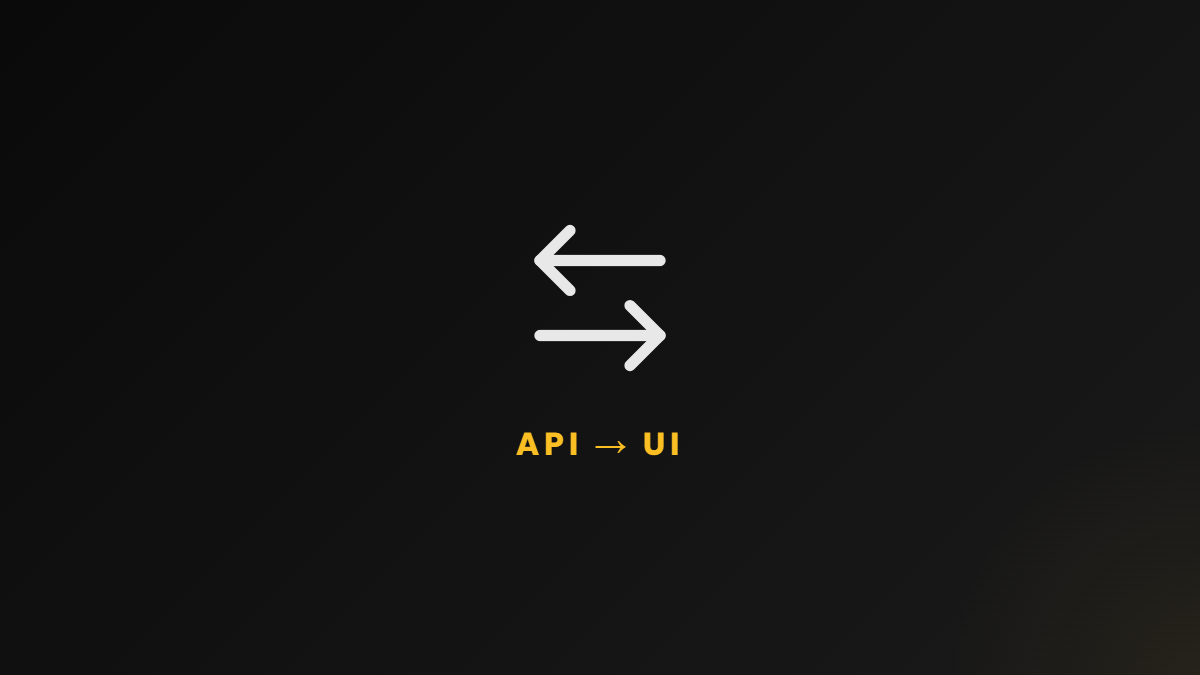
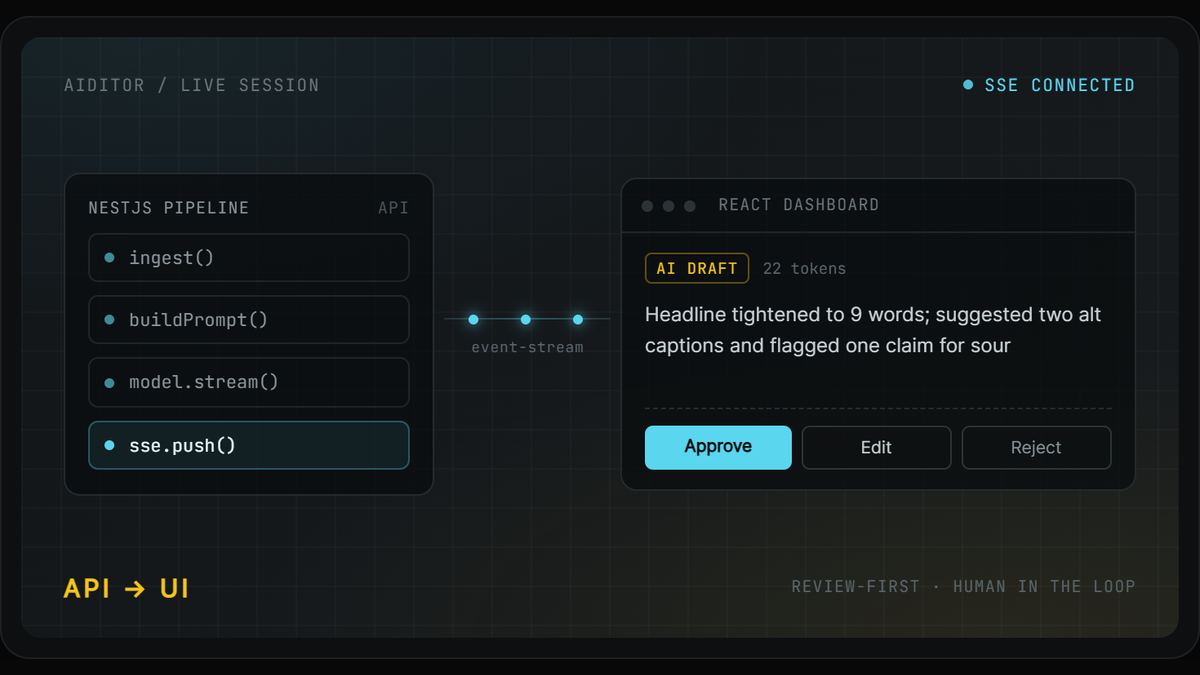
Replace the article covers with the UI mockups
Swaps the three placeholder cards — an icon and a label on flat black — for
mockups of what each write-up actually describes: the AIDITOR pipeline
streaming into a review-first dashboard, KiddoAI ranking curriculum PDFs
against a spoken question, and a hackathon sprint board counting down.

The sources are 1.87 against a 16:9 card slot, so they are fitted by width
rather than cropped, keeping each mockup's own border intact, and padded in
the site background, which is also what sits behind their rounded corners —
so the letterbox is invisible.

Serves WebP to browsers at a twelfth of the size (34 KB against 339 KB) with
no visible loss on the fine mockup type. The PNG stays as the fallback and as
the og:image, since not every social crawler handles WebP.

Alt text now describes what each mockup shows rather than calling it a cover
graphic.

diff --git a/src/lib/posts.ts b/src/lib/posts.ts
@@ -36,7 +36,7 @@ export const POSTS: Post[] = [
     excerpt:
       'How MASMEDIA AIDITOR ships real-time AI end to end: a NestJS pipeline, a React dashboard streaming over SSE, and a review-first UX that keeps AI output controllable.',
     cover: '/img/blog-thumb-api-ui.png',
-    coverAlt: 'Cover graphic for the NestJS and React real-time AI article.',
+    coverAlt: 'A NestJS pipeline streaming over Server-Sent Events into a React dashboard, where an AI draft waits on approve, edit or reject.',
     stack: 'NestJS • React • MongoDB • SSE • RxJS • Docker • LLM APIs • FFmpeg',
     fr: {
       cardTitle: 'De l’API à l’interface',
@@ -115,7 +115,7 @@ export const POSTS: Post[] = [
     excerpt:
       'A practical breakdown of how KiddoAI uses RAG over curriculum PDFs, structured tutoring flows, and voice interaction to personalise learning for children.',
     cover: '/img/blog-thumb-rag-education.png',
-    coverAlt: 'Cover graphic for the KiddoAI RAG article.',
+    coverAlt: 'KiddoAI ranking curriculum PDFs to answer a spoken question, with the source page cited beneath the tutor’s reply.',
     stack: 'Flutter • Spring Boot • MongoDB • OpenAI • RAG • STT/TTS',
     fr: {
       cardTitle: 'Construire KiddoAI',
@@ -164,7 +164,7 @@ export const POSTS: Post[] = [
     excerpt:
       'Scope decisions, MVP architecture and demo strategy under extreme time pressure — and the parts of that approach worth repeating.',
     cover: '/img/blog-thumb-hackathon-24h.png',
-    coverAlt: 'Cover graphic for the 24-hour hackathon article.',
+    coverAlt: 'A 24-hour hackathon sprint board: three must-haves kept, two features cut, and a timeline counting down to the demo.',
     stack: 'FlutterFlow • Backend API • Geolocation • RAG-ready structure',
     fr: {
       cardTitle: '24 heures pour une démo',
@@ -218,6 +218,12 @@ export const POSTS: Post[] = [
     ],
   },
 ];
+
+/** Display variant of a cover. The PNG stays for og:image, since not every
+ *  social crawler handles WebP. */
+export function coverWebp(cover: string) {
+  return cover.replace(/\.png$/, '.webp');
+}
 
 export function getPost(slug: string) {
   return POSTS.find((p) => p.slug === slug);

diff --git a/src/components/sections/writing.tsx b/src/components/sections/writing.tsx
@@ -3,7 +3,7 @@ import { motion, useScroll, useTransform, useReducedMotion } from 'framer-motion
 import { useSectionInView } from '@/lib/use-section-in-view';
 import { SectionHeader } from '@/components/ui/section-header';
 import { Watermark } from '@/components/ui/watermark';
-import { POSTS, type Post } from '@/lib/posts';
+import { coverWebp, POSTS, type Post } from '@/lib/posts';
 import { cn } from '@/lib/utils';
 import { useCopy, useLang, type Lang } from '@/lib/i18n';
 
@@ -100,13 +100,18 @@ function PostItem({ post, index, ui }: { post: Post; index: number; ui: (typeof 
           <div className="absolute inset-0 bg-[radial-gradient(circle_at_center,rgba(255,255,255,0.03)_0,transparent_100%)] pointer-events-none z-10" />
 
           <motion.div style={{ y: imageY }} className="w-full h-full flex items-center justify-center">
-            <img
-              src={post.cover}
-              alt={post.coverAlt}
-              loading="lazy"
-              decoding="async"
-              className="w-full h-full object-cover transition-transform duration-700 group-hover:scale-[1.03]"
-            />
+            <picture>
+              <source srcSet={coverWebp(post.cover)} type="image/webp" />
+              <img
+                src={post.cover}
+                alt={post.coverAlt}
+                width={1200}
+                height={675}
+                loading="lazy"
+                decoding="async"
+                className="w-full h-full object-cover transition-transform duration-700 group-hover:scale-[1.03]"
+              />
+            </picture>
           </motion.div>
         </div>
 

diff --git a/src/pages/article.tsx b/src/pages/article.tsx
@@ -2,7 +2,7 @@ import { useEffect } from 'react';
 import { Link, useParams } from 'wouter';
 import { motion, useScroll, useSpring } from 'framer-motion';
 import { ArrowLeft } from 'lucide-react';
-import { getPost, POSTS } from '@/lib/posts';
+import { coverWebp, getPost, POSTS } from '@/lib/posts';
 import NotFound from '@/pages/not-found';
 
 export default function Article() {
@@ -81,13 +81,18 @@ export default function Article() {
         {/* Cover */}
         <div className="max-w-4xl mx-auto px-6 md:px-12 -mt-2 pt-14">
           <div className="rounded-2xl overflow-hidden border border-white/10 shadow-[0_8px_32px_rgba(0,0,0,0.4)] bg-neutral-950/80 p-2 md:p-3">
-            <img
-              src={post.cover}
-              alt={post.coverAlt}
-              loading="eager"
-              decoding="async"
-              className="w-full h-auto rounded-xl"
-            />
+            <picture>
+              <source srcSet={coverWebp(post.cover)} type="image/webp" />
+              <img
+                src={post.cover}
+                alt={post.coverAlt}
+                width={1200}
+                height={675}
+                loading="eager"
+                decoding="async"
+                className="w-full h-auto rounded-xl"
+              />
+            </picture>
           </div>
         </div>
 
